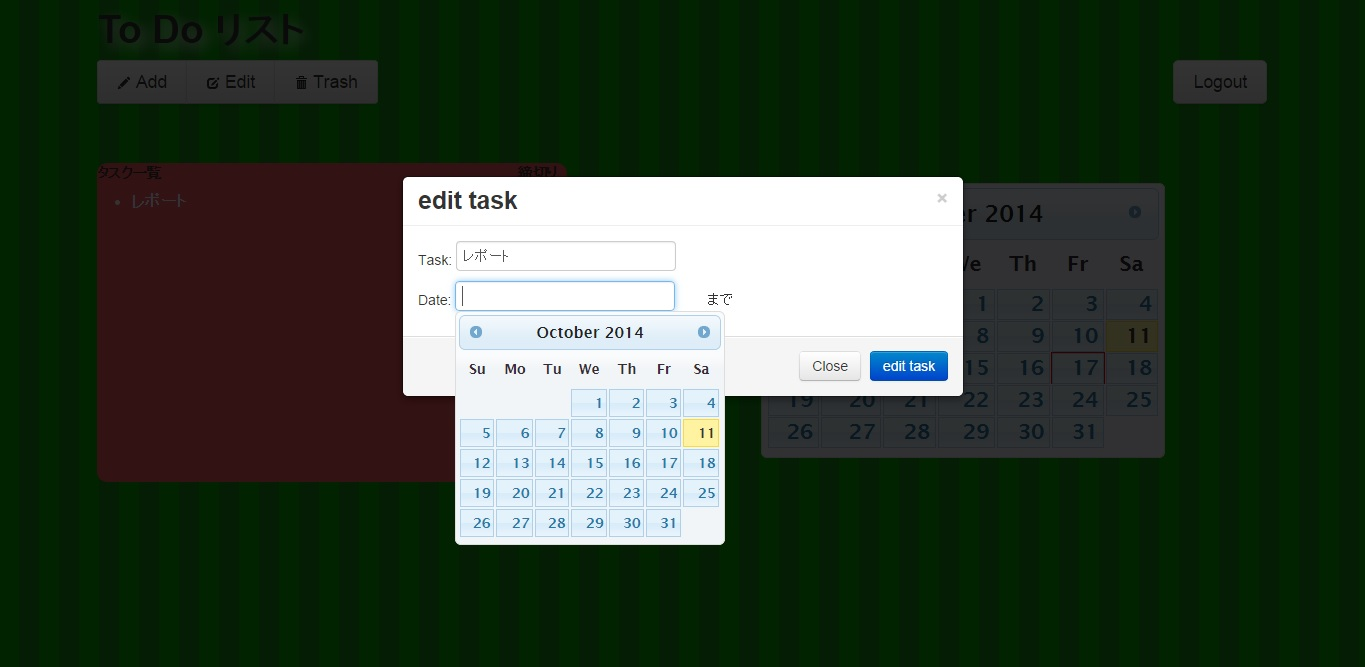
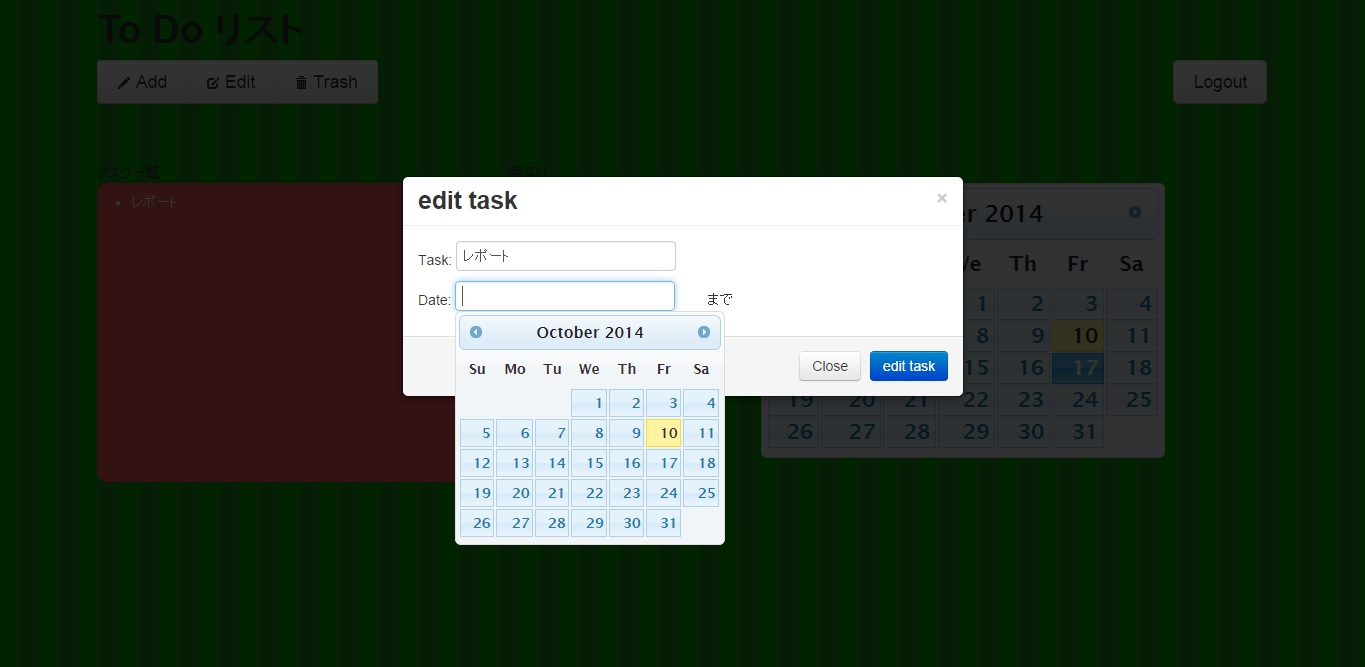
Revert ab7b3f3..f7c0c89
This rolls back to commit ab7b3f37b807c15f65df8ee6396f3dd034fa4a7a.

Changed region(s): [[0.0615, 0.2399, 0.4308, 0.2999], [0.4615, 0.6297, 0.5538, 0.6897], [0.7692, 0.5097, 0.8308, 0.5697]]

diff --git a/business-casual/about.html b/business-casual/about.html
@@ -86,37 +86,45 @@
                     <img class="img-responsive img-border-left" src="img/Todologin.jpg" alt="">
                 </div>
                 	<div class="col-md-6">
-                    	<p>まず最初にログインページの下の方にある新規ユーザ登録の部分に登録するユーザ名を入力します</p>
-                    	<p>そうするとユーザ登録が完了し、Todo管理アプリのページに飛びます</p>
-                    	<p>一度ユーザ名を登録してログインした場合次からログインする場合は上のユーザ名と書いてある部分に登録したユーザ名を入力すればまたログイン出来ます</p>
+                    	<p></p>
+                    	<p>Lid est laborum dolo rumes fugats untras. Etharums ser quidem rerum facilis dolores nemis omnis fugats vitaes nemo minima rerums unsers sadips amets.</p>
+                    	<p>Sed ut perspiciatis unde omnis iste natus error sit voluptatem accusantium doloremque laudantium, totam rem aperiam, eaque ipsa quae ab illo inventore veritatis et quasi architecto beatae vitae dicta sunt explicabo.</p>
                 	</div>
                 		<div class="col-md-6">
                     <img class="img-responsive img-border-left" src="img/Todoindex.jpg" alt="">
                 		</div>
                 		<div class="col-md-6">
-                    	<p>左上のボタンでタスクの追加(Add)・編集(Edit)・削除(Trash)が出来ます。そして追加・編集したタスクは左下の赤い部分に表示されます</p>
-                    	<p>右上にログアウトボタンがあり、その下にカレンダーが表示されます</p>
+                    	<p></p>
+                    	<p>Lid est laborum dolo rumes fugats untras. Etharums ser quidem rerum facilis dolores nemis omnis fugats vitaes nemo minima rerums unsers sadips amets.</p>
+                    	<p>Sed ut perspiciatis unde omnis iste natus error sit voluptatem accusantium doloremque laudantium, totam rem aperiam, eaque ipsa quae ab illo inventore veritatis et quasi architecto beatae vitae dicta sunt explicabo.</p>
                 		</div>
                 			<div class="col-md-6">
                     <img class="img-responsive img-border-left" src="img/Todoaddtask.jpg" alt="">
                 			</div>
                 			<div class="col-md-6">
-                    		<p>左上のAddボタンをクリックするとタスクを入力する部分とそのタスクの期日を入力する部分が表示されます</p>
-                    		<p>タスクの期日はDateの横の入力部分をクリックするとカレンダーが表示されるのでカレンダーの設定したい日付をクリックすると期日の設定が出来ます</p>
-                    		<p>タスクと期日の入力が終わったら右下のSave taskをクリックすればタスクが追加されます</p>
+                    		<p></p>
+                    		<p>Lid est laborum dolo rumes fugats untras. Etharums ser quidem rerum facilis dolores nemis omnis fugats vitaes nemo minima rerums unsers sadips amets.</p>
+                    		<p>Sed ut perspiciatis unde omnis iste natus error sit voluptatem accusantium doloremque laudantium, totam rem aperiam, eaque ipsa quae ab illo inventore veritatis et quasi architecto beatae vitae dicta sunt explicabo.</p>
                 			</div>
                 				<img class="img-responsive img-border-left" src="img/Todoedittask.jpg" alt="">
                 				</div>
                 				<div class="col-md-6">
-                    			<p>タスク一覧内の編集したいタスクをクリックし、左上のEditボタンをクリックすると編集したいタスクとそのタスクの期日が編集する部分が表示されます</p>
-                    			<p>この画面で追加の時のようにタスクを編集し、期日を設定した後に右下のedit taskをクリックするとタスクの編集が出来ます</p>
+                    			<p></p>
+                    			<p>Lid est laborum dolo rumes fugats untras. Etharums ser quidem rerum facilis dolores nemis omnis fugats vitaes nemo minima rerums unsers sadips amets.</p>
+                    			<p>Sed ut perspiciatis unde omnis iste natus error sit voluptatem accusantium doloremque laudantium, totam rem aperiam, eaque ipsa quae ab illo inventore veritatis et quasi architecto beatae vitae dicta sunt explicabo.</p>
                 				</div>
-                					<img class="img-responsive img-border-left" src="img/Todotrashtask.jpg" alt="">
+                					<div class="col-md-6">
+                    				<p></p>
+                    				<p>Lid est laborum dolo rumes fugats untras. Etharums ser quidem rerum facilis dolores nemis omnis fugats vitaes nemo minima rerums unsers sadips amets.</p>
+                    				<p>Sed ut perspiciatis unde omnis iste natus error sit voluptatem accusantium doloremque laudantium, totam rem aperiam, eaque ipsa quae ab illo inventore veritatis et quasi architecto beatae vitae dicta sunt explicabo.</p>
+                					</div>
+                					<img class="img-responsive img-border-left" src="img/Todoedittask.jpg" alt="">
                 					</div>
                 					<div class="col-md-6">
-                    				<p>削除したいタスクをクリックして左上のTrashボタンをクリックすると、タスクを削除することが出来ます</p>
+                    				<p></p>
+                    				<p>Lid est laborum dolo rumes fugats untras. Etharums ser quidem rerum facilis dolores nemis omnis fugats vitaes nemo minima rerums unsers sadips amets.</p>
+                    				<p>Sed ut perspiciatis unde omnis iste natus error sit voluptatem accusantium doloremque laudantium, totam rem aperiam, eaque ipsa quae ab illo inventore veritatis et quasi architecto beatae vitae dicta sunt explicabo.</p>
                 					</div>
-
                 <div class="clearfix"></div>
             </div>
         </div>

diff --git a/business-casual/index.html b/business-casual/index.html
@@ -47,7 +47,7 @@
                     <span class="icon-bar"></span>
                 </button>
                 <!-- navbar-brand is hidden on larger screens, but visible when the menu is collapsed -->
-                <a class="navbar-brand" href="index.html">XMLPro</a>
+                <a class="navbar-brand" href="index.html">Business Casual</a>
             </div>
             <!-- Collect the nav links, forms, and other content for toggling -->
             <div class="collapse navbar-collapse" id="bs-example-navbar-collapse-1">
@@ -113,11 +113,9 @@
                     </h2>
                     <hr>
                 </div>
-    <div class="boxCenter">
-    <div class="col-sm-4 text-center img-height">
-                    <img class="img-responsive img-size" src="img/IMG_1817.jpg" alt="" width="150%" height="150%">
+    <div class="col-sm-4 text-center">
+                    <img class="img-responsive" src="img/IMG_1817.jpg" alt="">
                                     </div>
-                                    <div class="txt-box">
                     <h3><p>左から鈴木・小原・村山</p>
                     	<h3><p>メンバーのTwitterID</p>
                     		<h3><p>鈴木: @mac_lily_poke</p>
@@ -128,8 +126,6 @@
                     		</h3>
                     	</h3>
                     </h3>
-                    </div>
-                </div>
     <!-- /.container -->
 
  <!--   <footer>

diff --git a/js/script.js b/js/script.js
@@ -61,7 +61,7 @@ $(".taskCal").datepicker({
 	});
 $( ".taskCal" ).datepicker( "option", "dateFormat", "yy-mm-dd" );
 
-$(".title").width($("#box").width()+9);
+$(".title").width($("#box").width());
 
 $(document).on("click", "#create", function(){
 	console.log("saveボタンが押された！");
@@ -70,16 +70,10 @@ $(document).on("click", "#create", function(){
 	console.log(this);
 	console.log(t);
 	console.log(date);
-	var now = new Date();
-	var taskDate = new Date();
-	taskDate.setTime(Date.parse(date));
-	console.log(now.getDate());
-	console.log(taskDate.getDate());
-
 	var dateArray = date.split("-");
 	var term = dateArray[1] + "/" + dateArray[2];
 	var data;
-	if((t != "") && (date != "") && (now.getYear() <= taskDate.getYear()) && (now.getMonth() <= taskDate.getMonth()) && (now.getDate() <= taskDate.getDate())){
+	if(t != "" && date != ""){
 		var d = false;
 		data = {'task' : t , 'date': date};
 		if($("li").size() > 0){
@@ -208,7 +202,6 @@ $("#edit").click(function(){
 				var term = dateArray[1] + "/" + dateArray[2];
 				console.log(date);
 				console.log(term);
-				
 
 				if(t != null && date != null){
 					$(".selected").replaceWith("<li class='hiding'><span class='task'>" + t + "</span><span class='term'>" + term + "</span></li>").show();

diff --git a/css/layout.css b/css/layout.css
@@ -8,21 +8,12 @@ body{
 li {
 	margin-bottom: 3%;
 	cursor: pointer;
-	font-weight: bolder;
-	color:#000;
-	font-size:medium;
-}
-h1{
-	text-shadow:5px 5px 20px #fcfcfc;
-}
 
+}
 #box{
 	background-color: rgba(248, 91, 93, 1);
-	/*-webkit-border-radius: 10px;*/
-	-webkit-border-bottom-right-radius: 10px;
-	-webkit-border-bottom-left-radius: 10px;
-	border-bottom-right-radius: 10px;
-	border-bottom-left-radius: 10px;
+	-webkit-border-radius: 10px;
+	border-radius: 10px;
 	height: 290px;
 	padding-left: 2%;
 	padding-top: 2%;
@@ -30,12 +21,6 @@ h1{
 }
 .title {
 	height: 20px;
-	background-color: rgba(248, 91, 93, 1);
-	-webkit-border-top-left-radius: 10px;
-	-webkit-border-top-right-radius: 10px;
-	border-top-left-radius: 10px;
-	border-top-right-radius: 10px;
-	font-weight: 900;
 	/*width: (100 * 5/12)%;
 	margin-right: (100-(100*5/12))%;
 	float: left;

diff --git a/business-casual/css/business-casual.css b/business-casual/css/business-casual.css
@@ -110,23 +110,7 @@ footer p {
     margin: 0;
     padding: 50px 0;
 }
-.boxCenter {
-    padding-left: 25%;
-}
-.img-height {
-   
-    margin-right: 20px;
-}
-.img-size{
-    width: 180%;
-    height: 180%;
-    margin-top: 30px;
-}
-.txt-box {
-    height: 400px;
-    width: 400px;
-    margin-left: 360px;
-}
+
 @media screen and (min-width:768px) {
     .brand {
         display: inherit;
